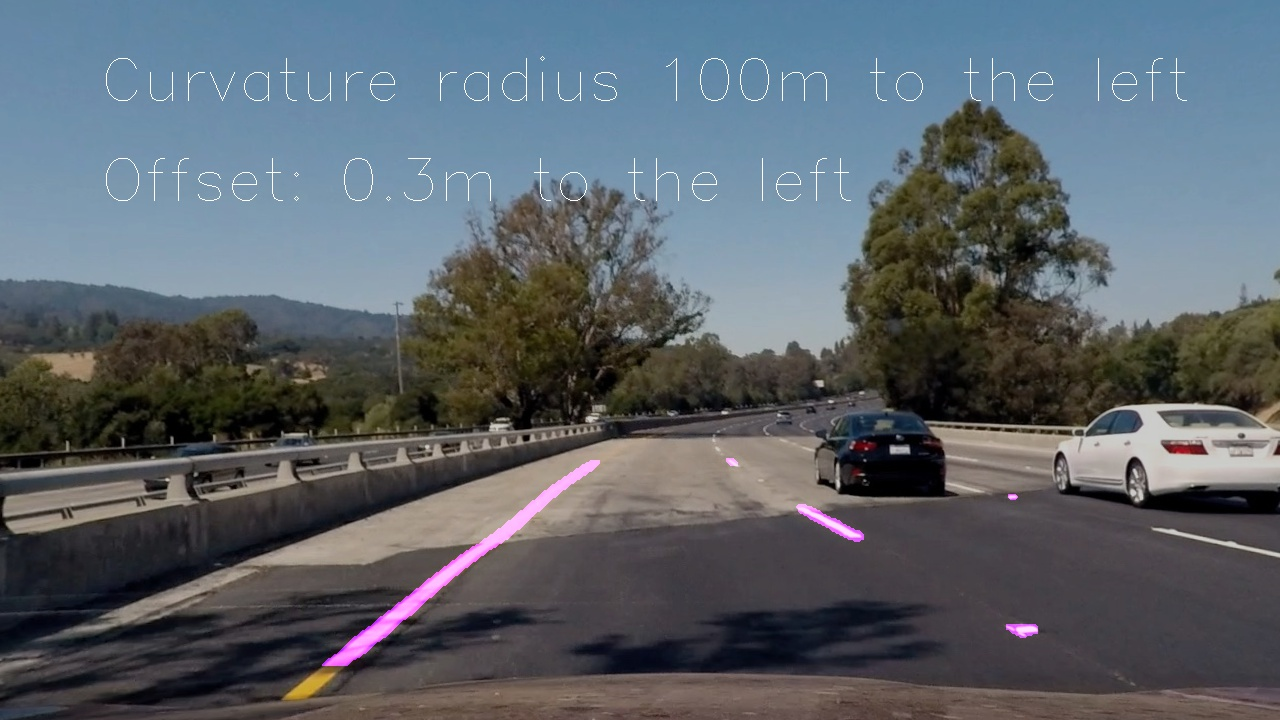
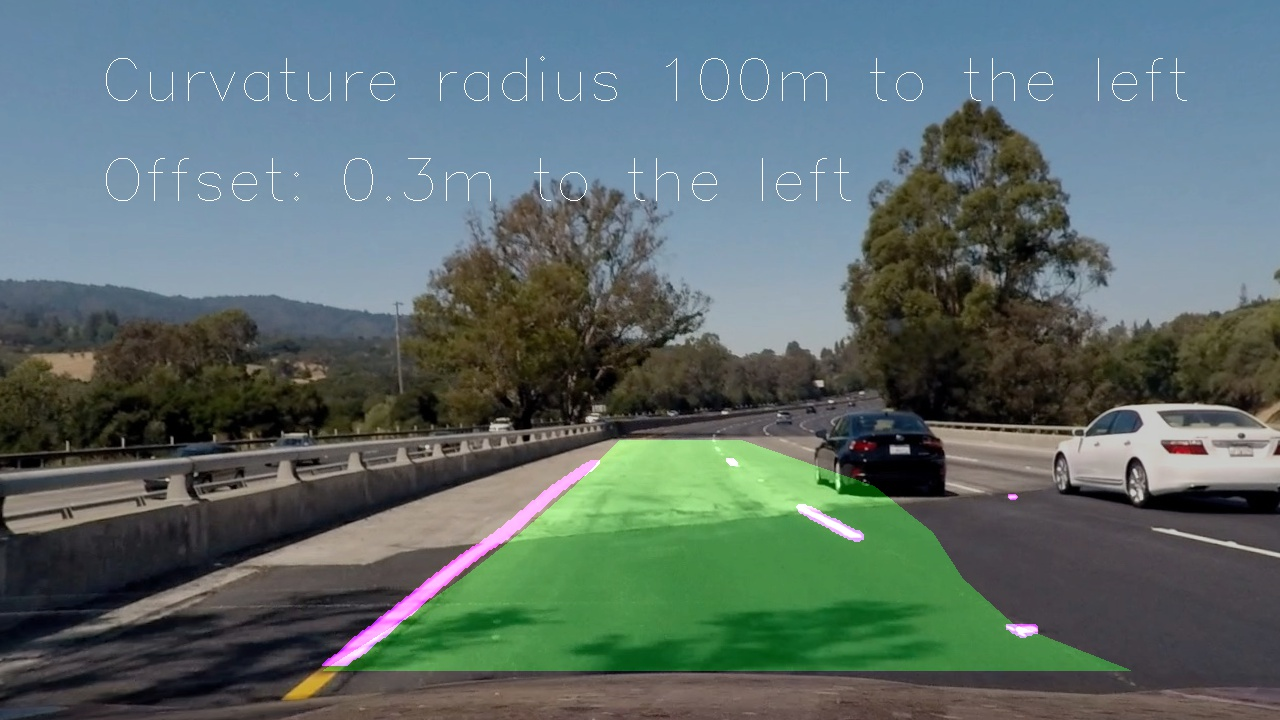
Show lane lines on annotated image and video

Changed region(s): [[0.25, 0.6111, 0.875, 0.9472]]

diff --git a/main.py b/main.py
@@ -182,11 +182,9 @@ def image_to_lane_markings(img, model):
   lane_line_odds = cv2.split(model_output)[0]
 
   x_center = int(lane_line_odds.shape[1] / 2)
-  threshold = 0.25
-  #threshold = min(np.amax(lane_line_odds[:,:x_center]), np.amax(lane_line_odds[:,x_center:])) * 0.5
-  #distribution = [(lane_line_odds > x).sum() for x in [0, 0.1, 0.2, 0.3, 0.4, 0.5, 0.6, 0.7, 0.8, 0.9, 1.0]]
-  #print("threshold: " + str(threshold) + " distribution: " + str(distribution))
 
+  threshold = 0.25
+  #threshold = min(0.5, np.amax(lane_line_odds[:,:x_center]) - 0.1, np.amax(lane_line_odds[:,x_center:]) - 0.1)
   result = np.zeros_like(lane_line_odds)
   result[lane_line_odds > threshold] = 254
   
@@ -218,12 +216,49 @@ perspective_max_y = perspective_delta_y
 perspective_max_x = int(perspective_delta_x + 2 * perspective_border_x)
 perspective_pixels_per_meter = perspective_delta_x / 3.7
 
-def perspective_transform(img):
+perspective_origin_y_top = 440
+perspective_origin_y_bottom = 670
+perspective_origin_x_top_left = 609
+perspective_origin_x_top_right = 673
+perspective_origin_x_bottom_left = 289
+perspective_origin_x_bottom_right = 1032
+
+perspective_origin_delta_x_bottom = perspective_origin_x_bottom_right - perspective_origin_x_bottom_left
+perspective_origin_delta_x_top = perspective_origin_x_top_right - perspective_origin_x_top_left
+perspective_origin_delta_y = perspective_origin_y_bottom - perspective_origin_y_top
+
+def draw_lines_on_dash(dash_img, lines):
+  max_y_idx = 5
+  points_left = []
+  points_right = []
+  for line_idx in range(2):
+    line = lines[line_idx]
+    for y_idx in range(max_y_idx + 1):
+      portion_bottom_to_top = y_idx * 1.0 / max_y_idx
+      y = perspective_origin_y_bottom - portion_bottom_to_top * perspective_origin_delta_y
+      yp = perspective_delta_y * (1 - portion_bottom_to_top)
+      xp = line[0] * yp**2 + line[1] * yp + line[2]
+      x_portion = (xp - perspective_border_x) / perspective_delta_x
+      x_left = perspective_origin_x_bottom_left + portion_bottom_to_top * (perspective_origin_x_top_left - perspective_origin_x_bottom_left)
+      x_right = perspective_origin_x_bottom_right + portion_bottom_to_top * (perspective_origin_x_top_right - perspective_origin_x_bottom_right)
+      x = x_left + x_portion * (x_right - x_left)
+      if line_idx == 0:
+        points_left.append([x,y])
+      else:
+        points_right.append([x,y])
+  points_right.reverse()
+  points = points_left + points_right
+  img = np.zeros_like(dash_img)
+  cv2.fillPoly(img, np.int_([points]), (0,255,0))
+  res = cv2.addWeighted(dash_img, 1, img, 0.3, 0)
+  return res
+
+def perspective_matrices():
   # These points (list of [x,y] pairs) are taken from lane lines
   # in output_images/dash_undistort/straight_lines2.jpg.
   src = np.float32(
-          [[609,440], [673,440],
-           [289,670], [1032,670]])
+          [[perspective_origin_x_top_left,perspective_origin_y_top],       [perspective_origin_x_top_right,perspective_origin_y_top],
+           [perspective_origin_x_bottom_left,perspective_origin_y_bottom], [perspective_origin_x_bottom_right,perspective_origin_y_bottom]])
   # These points represent points in the perspective transformed
   # image corresponding to the src points taken from the undistorted image.
   dst = np.float32(
@@ -232,6 +267,12 @@ def perspective_transform(img):
            [perspective_border_x, perspective_delta_y],
            [perspective_border_x + perspective_delta_x, perspective_delta_y]])
   M = cv2.getPerspectiveTransform(src,dst)
+  M_inv= cv2.getPerspectiveTransform(dst,src)
+  return (M,M_inv)
+
+M,M_inv = perspective_matrices()
+
+def perspective_transform(img):
   img = cv2.warpPerspective(img, M, (perspective_max_x, perspective_max_y), flags=cv2.INTER_LINEAR)
   return img
 
@@ -338,6 +379,7 @@ def annotate_original_image(img, markings_img=None, lane_lines=(None,None)):
       offset_text = "Offset: " + str(int(abs(offset * 10)) / 10.0) + "m to the " + offset_direction
     cv2.putText(img, radius_text, (100,100), cv2.FONT_HERSHEY_SIMPLEX, 2, (255,255,255))
     cv2.putText(img, offset_text, (100,200), cv2.FONT_HERSHEY_SIMPLEX, 2, (255,255,255))
+    img = draw_lines_on_dash(img, lane_lines)
   return img
 
 def process_image(img, model, calibration):
@@ -361,33 +403,33 @@ def save_examples_from_video():
 
 def main():
   calibration = calibrate_chessboard()
-  undistort_files(calibration, 'camera_cal/calibration*.jpg', 'output_images/chessboard_undistort')
+  #undistort_files(calibration, 'camera_cal/calibration*.jpg', 'output_images/chessboard_undistort')
   #save_examples_from_video()
-  undistort_files(calibration, 'test_images/*.jpg', 'output_images/dash_undistort')
+  #undistort_files(calibration, 'test_images/*.jpg', 'output_images/dash_undistort')
   model = create_model()
   #train_model(model, epochs=1000)
   #model.save_weights('model.h5')
   model.load_weights('model.h5')
-  transform_image_files(crop_scale_white_balance, 'test_images/*.jpg', 'output_images/cropped')
-  transform_image_files(uncrop_scale, 'output_images/cropped/*.jpg', 'output_images/uncropped')
-  transform_image_files((lambda img: image_to_lane_markings(img, model)),
-                        'test_images/*.jpg', 'output_images/markings')
-  transform_image_files(perspective_transform,
-                        'output_images/dash_undistort/*.jpg',
-                        'output_images/birds_eye')
-  undistort_files(calibration,
-                  'output_images/markings/*.jpg',
-                  'output_images/undistort_markings')
-  transform_image_files(perspective_transform,
-                        'output_images/undistort_markings/*.jpg',
-                        'output_images/birds_eye_markings')
-  transform_image_files(convert_lane_heatmap_to_lane_lines_image,
-                        'output_images/birds_eye_markings/*.jpg',
-                        'output_images/birds_eye_lines')
+  #transform_image_files(crop_scale_white_balance, 'test_images/*.jpg', 'output_images/cropped')
+  #transform_image_files(uncrop_scale, 'output_images/cropped/*.jpg', 'output_images/uncropped')
+  #transform_image_files((lambda img: image_to_lane_markings(img, model)),
+  #                      'test_images/*.jpg', 'output_images/markings')
+  #transform_image_files(perspective_transform,
+  #                      'output_images/dash_undistort/*.jpg',
+  #                      'output_images/birds_eye')
+  #undistort_files(calibration,
+  #                'output_images/markings/*.jpg',
+  #                'output_images/undistort_markings')
+  #transform_image_files(perspective_transform,
+  #                      'output_images/undistort_markings/*.jpg',
+  #                      'output_images/birds_eye_markings')
+  #transform_image_files(convert_lane_heatmap_to_lane_lines_image,
+  #                      'output_images/birds_eye_markings/*.jpg',
+  #                      'output_images/birds_eye_lines')
   transform_image_files((lambda img: process_image(img, model, calibration)),
                         'test_images/*.jpg',
                         'output_images/final')
-  process_video('project_video.mp4', 'output_images/videos/project_video.mp4', model, calibration)
+  #process_video('project_video.mp4', 'output_images/videos/project_video.mp4', model, calibration)
 
 if __name__ == '__main__':
   main()
